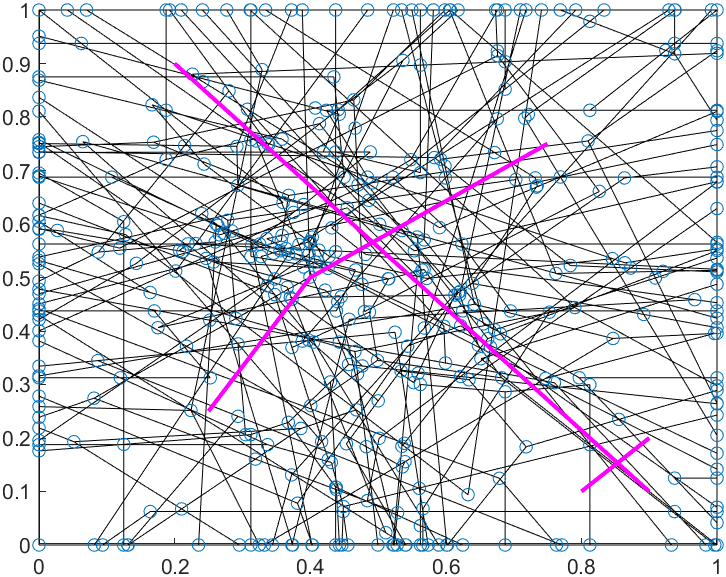
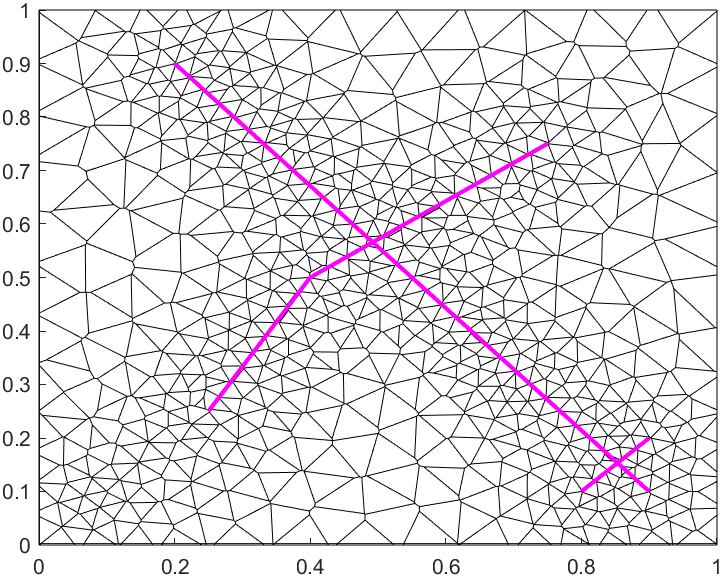
Update resGridSize in example. Add single point

diff --git a/code/gmsh_to_mrst/exampleClippedPebi2DGmsh.m b/code/gmsh_to_mrst/exampleClippedPebi2DGmsh.m
@@ -2,7 +2,7 @@
 % Create a simple 2D mesh using Gmsh, called from MATLAB
 
 % Setup required variables
-resGridSize = 0.25;
+resGridSize = 0.1;
 domain = [1 1];
 faceConstraints.a.x = [0.25 0.4 0.75];
 faceConstraints.a.y = [0.25 0.5 0.75];
@@ -10,6 +10,8 @@ faceConstraints.b.x = [0.8 0.9];
 faceConstraints.b.y = [0.1 0.2];
 faceConstraints.theseCanHaveAnyNames.x = [0.2 0.9];
 faceConstraints.theseCanHaveAnyNames.y = [0.9 0.1];
+faceConstraints.alsoWorksWithSinglePoints.x = 0.1;
+faceConstraints.alsoWorksWithSinglePoints.y = 0.1;
 
 % pebiGrid2DGmsh returns a single variable, G
 G = clippedPebi2DGmsh(resGridSize, domain, faceConstraints);
@@ -17,7 +19,6 @@ G = clippedPebi2DGmsh(resGridSize, domain, faceConstraints);
 % Plot result
 hold on;
 plotGrid(G, 'faceColor', 'none');
-plot(G.nodes.coords(:, 1), G.nodes.coords(:, 2), LineStyle='none', Marker='o')
 
 % Plot lines
 plot(faceConstraints.a.x, faceConstraints.a.y, 'lineWidth', 2, 'color', 'magenta', 'markersize', 3);

diff --git a/code/gmsh_to_mrst/examplePebiGrid2DGmsh.m b/code/gmsh_to_mrst/examplePebiGrid2DGmsh.m
@@ -2,7 +2,7 @@
 % Create a simple 2D mesh using Gmsh, called from MATLAB
 
 % Setup required variables
-resGridSize = 0.25;
+resGridSize = 0.1;
 domain = [1, 1];
 faceConstraints.a.x = [0.25 0.4 0.75];
 faceConstraints.a.y = [0.25 0.5 0.75];
@@ -10,6 +10,8 @@ faceConstraints.b.x = [0.8 0.9];
 faceConstraints.b.y = [0.1 0.2];
 faceConstraints.theseCanHaveAnyNames.x = [0.2 0.9];
 faceConstraints.theseCanHaveAnyNames.y = [0.9 0.1];
+faceConstraints.alsoWorksWithSinglePoints.x = 0.1;
+faceConstraints.alsoWorksWithSinglePoints.y = 0.1;
 
 % pebiGrid2DGmsh returns a single variable, G
 G = pebiGrid2DGmsh(resGridSize, domain, faceConstraints);
